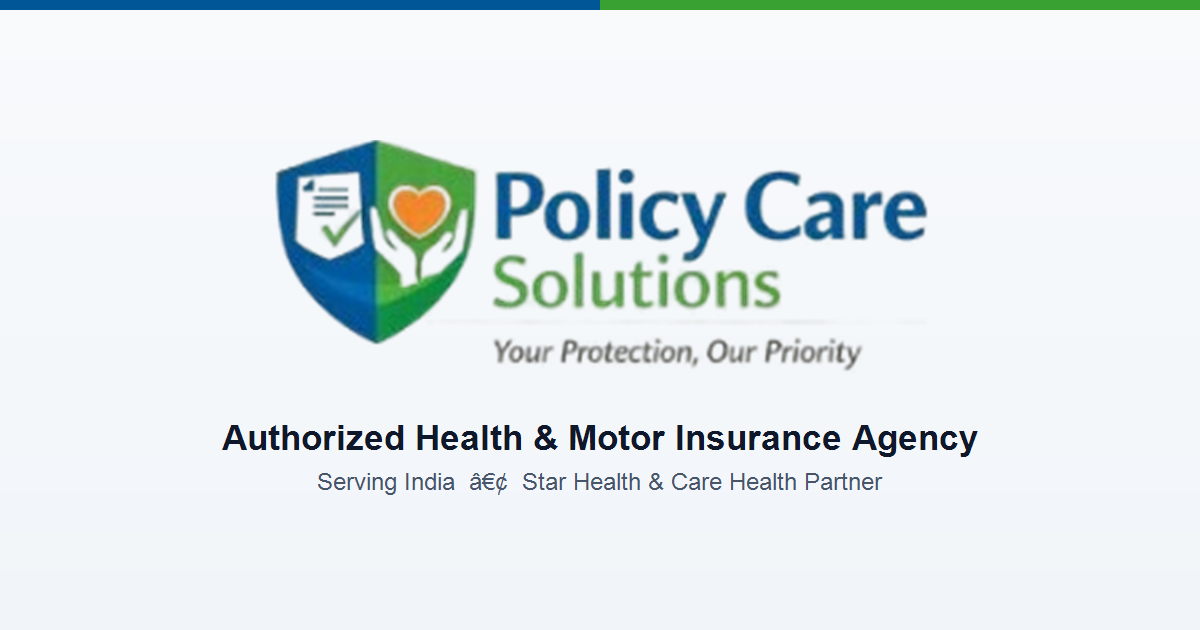
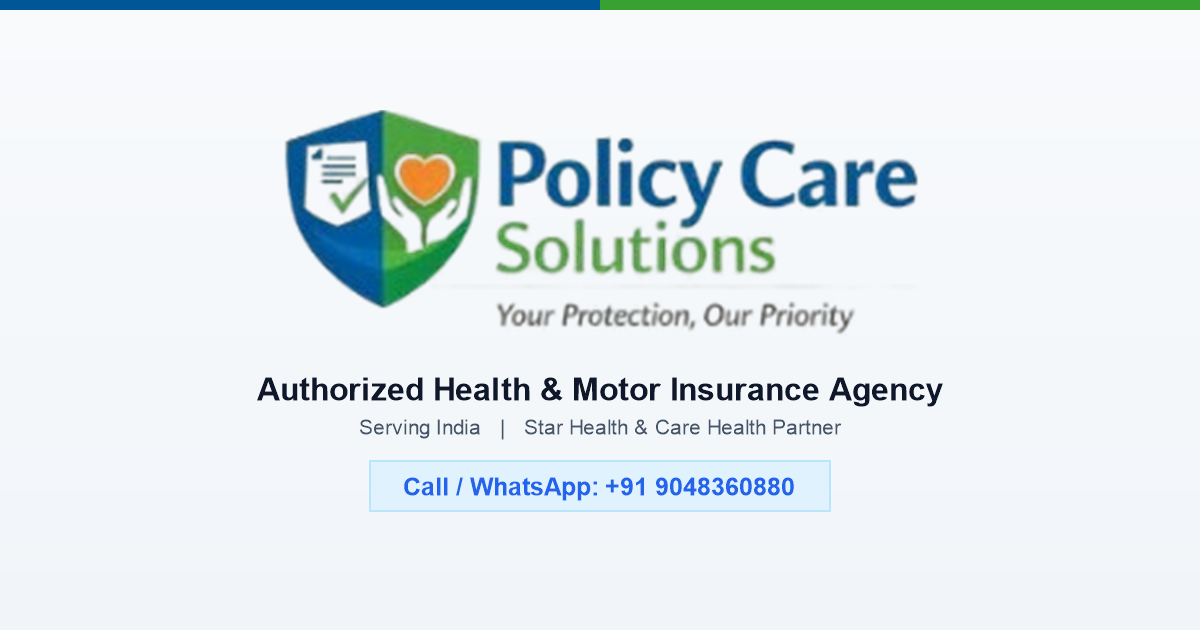
Telugu Added & OG Contact Added

Changed region(s): [[0.185, 0.1508, 0.8325, 0.8143]]

diff --git a/getquote.html b/getquote.html
@@ -4,7 +4,7 @@
     <meta charset="UTF-8">
     <meta name="viewport" content="width=device-width, initial-scale=1.0">
     <title>Instant Insurance Quote Assistant | Policy Care Solutions (Ottapalam & Palakkad)</title>
-    <meta name="description" content="Get an instant personalized Star Health, Care Health, or Motor insurance quote from licensed advisors in Ottapalam & Palakkad. Available in English, Malayalam, Tamil, Hindi, and Kannada.">
+    <meta name="description" content="Get an instant personalized Star Health, Care Health, or Motor insurance quote from licensed advisors in Ottapalam & Palakkad. Available in English, Malayalam, Tamil, Telugu, Hindi, and Kannada.">
     <meta name="keywords" content="Get Insurance Quote Ottapalam, Health Insurance Agents Palakkad, Star Health Malayalam Quote, Care Health Tamil Quote, Motor Insurance Renewal Kerala">
     
     <!-- Favicon & Icons -->
@@ -88,61 +88,60 @@
 
     <!-- FIRST VISIT LANGUAGE SELECTION MODAL POPUP -->
     <div id="language-modal-popup" class="fixed inset-0 z-50 bg-slate-950/70 backdrop-blur-md flex items-center justify-center p-4 animate-fadeIn">
-        <div class="bg-white dark:bg-slate-900 border border-slate-200 dark:border-slate-800 rounded-3xl p-6 sm:p-8 max-w-lg w-full shadow-2xl space-y-6 text-center">
+        <div class="bg-white dark:bg-slate-900 border border-slate-200 dark:border-slate-800 rounded-3xl p-6 sm:p-8 max-w-lg w-full shadow-2xl space-y-5 text-center">
             
-            <div class="w-16 h-16 rounded-2xl bg-gradient-to-tr from-sky-500 via-teal-500 to-emerald-500 text-white mx-auto flex items-center justify-center text-3xl font-black shadow-lg">
+            <div class="w-14 h-14 rounded-2xl bg-gradient-to-tr from-sky-500 via-teal-500 to-emerald-500 text-white mx-auto flex items-center justify-center text-2xl font-black shadow-lg">
                 <i class="fa-solid fa-language"></i>
             </div>
 
             <div>
-                <h2 class="text-xl sm:text-2xl font-extrabold text-slate-900 dark:text-white font-heading">Select Your Language</h2>
+                <h2 class="text-xl sm:text-2xl font-extrabold text-slate-900 dark:text-white font-heading">Choose Preferred Language</h2>
                 <p class="text-xs text-slate-500 dark:text-slate-400 mt-1">
-                    ഭാഷ തിരഞ്ഞെടുക്കുക • மொழியைத் தேர்ந்தெடுக்கவும் • भाषा चुनें • ಭಾಷೆಯನ್ನು ಆಯ್ಕೆಮಾಡಿ
+                    ഭാഷ തിരഞ്ഞെടുക്കുക • மொழியைத் தேர்ந்தெடுக்கவும் • భాషను ఎంచుకోండి
                 </p>
             </div>
 
-            <!-- 5 Language Buttons Grid -->
+            <!-- MAIN FEATURED PRIMARY BUTTONS (ENGLISH & MALAYALAM - LARGE CARDS) -->
             <div class="grid grid-cols-1 sm:grid-cols-2 gap-3 text-left">
-                <button onclick="confirmLanguageModal('en')" class="p-3.5 rounded-2xl bg-slate-50 dark:bg-slate-800 hover:bg-sky-50 dark:hover:bg-sky-950 border border-slate-200 dark:border-slate-700 hover:border-sky-500 transition-all flex items-center gap-3 group">
-                    <span class="text-2xl">🇬🇧</span>
+                <button onclick="confirmLanguageModal('en')" class="p-4 rounded-2xl bg-gradient-to-br from-sky-50 to-white dark:from-slate-800 dark:to-slate-900 hover:from-sky-100 dark:hover:from-sky-950 border-2 border-sky-500 shadow-md transition-all flex items-center gap-3 group">
+                    <span class="text-3xl">🇬🇧</span>
                     <div>
-                        <div class="font-extrabold text-xs text-slate-900 dark:text-white group-hover:text-sky-600">English</div>
-                        <div class="text-[10px] text-slate-500">Continue in English</div>
+                        <div class="font-extrabold text-sm text-slate-900 dark:text-white group-hover:text-sky-600">English</div>
+                        <div class="text-xs text-sky-600 dark:text-sky-400 font-semibold">Continue in English</div>
                     </div>
                 </button>
 
-                <button onclick="confirmLanguageModal('ml')" class="p-3.5 rounded-2xl bg-slate-50 dark:bg-slate-800 hover:bg-teal-50 dark:hover:bg-teal-950 border border-slate-200 dark:border-slate-700 hover:border-teal-500 transition-all flex items-center gap-3 group">
-                    <span class="text-2xl">🇮🇳</span>
+                <button onclick="confirmLanguageModal('ml')" class="p-4 rounded-2xl bg-gradient-to-br from-teal-50 to-white dark:from-slate-800 dark:to-slate-900 hover:from-teal-100 dark:hover:from-teal-950 border-2 border-teal-500 shadow-md transition-all flex items-center gap-3 group">
+                    <span class="text-3xl">🇮🇳</span>
                     <div>
-                        <div class="font-extrabold text-xs text-slate-900 dark:text-white group-hover:text-teal-600">മലയാളം</div>
-                        <div class="text-[10px] text-slate-500">മലയാളത്തിൽ തുടരുക</div>
-                    </div>
-                </button>
-
-                <button onclick="confirmLanguageModal('ta')" class="p-3.5 rounded-2xl bg-slate-50 dark:bg-slate-800 hover:bg-emerald-50 dark:hover:bg-emerald-950 border border-slate-200 dark:border-slate-700 hover:border-emerald-500 transition-all flex items-center gap-3 group">
-                    <span class="text-2xl">🇮🇳</span>
-                    <div>
-                        <div class="font-extrabold text-xs text-slate-900 dark:text-white group-hover:text-emerald-600">தமிழ்</div>
-                        <div class="text-[10px] text-slate-500">தமிழில் தொடரவும்</div>
-                    </div>
-                </button>
-
-                <button onclick="confirmLanguageModal('hi')" class="p-3.5 rounded-2xl bg-slate-50 dark:bg-slate-800 hover:bg-amber-50 dark:hover:bg-amber-950 border border-slate-200 dark:border-slate-700 hover:border-amber-500 transition-all flex items-center gap-3 group">
-                    <span class="text-2xl">🇮🇳</span>
-                    <div>
-                        <div class="font-extrabold text-xs text-slate-900 dark:text-white group-hover:text-amber-600">हिंदी</div>
-                        <div class="text-[10px] text-slate-500">हिंदी में आगे बढ़ें</div>
-                    </div>
-                </button>
-
-                <button onclick="confirmLanguageModal('kn')" class="p-3.5 rounded-2xl bg-slate-50 dark:bg-slate-800 hover:bg-purple-50 dark:hover:bg-purple-950 border border-slate-200 dark:border-slate-700 hover:border-purple-500 transition-all flex items-center gap-3 group sm:col-span-2">
-                    <span class="text-2xl">🇮🇳</span>
-                    <div>
-                        <div class="font-extrabold text-xs text-slate-900 dark:text-white group-hover:text-purple-600">ಕನ್ನಡ</div>
-                        <div class="text-[10px] text-slate-500">ಕನ್ನಡದಲ್ಲಿ ಮುಂದುವರಿಯಿರಿ</div>
+                        <div class="font-extrabold text-sm text-slate-900 dark:text-white group-hover:text-teal-600">മലയാളം</div>
+                        <div class="text-xs text-teal-600 dark:text-teal-400 font-semibold">മലയാളത്തിൽ തുടരുക</div>
                     </div>
                 </button>
             </div>
+
+            <!-- SECONDARY REGIONAL LANGUAGES (COMPACT SMALLER BUTTONS) -->
+            <div class="pt-2">
+                <div class="text-[11px] font-extrabold text-slate-400 dark:text-slate-500 uppercase tracking-wider mb-2.5 text-center">Other Regional Languages</div>
+                <div class="grid grid-cols-2 sm:grid-cols-4 gap-2 text-center">
+                    <button onclick="confirmLanguageModal('ta')" class="py-2.5 px-3 rounded-xl bg-slate-100 dark:bg-slate-800 hover:bg-emerald-50 dark:hover:bg-emerald-950 border border-slate-200 dark:border-slate-700 hover:border-emerald-500 transition-all font-extrabold text-xs text-slate-800 dark:text-slate-200 hover:text-emerald-600 flex items-center justify-center gap-1.5">
+                        <span>🇮🇳</span> தமிழ்
+                    </button>
+
+                    <button onclick="confirmLanguageModal('te')" class="py-2.5 px-3 rounded-xl bg-slate-100 dark:bg-slate-800 hover:bg-indigo-50 dark:hover:bg-indigo-950 border border-slate-200 dark:border-slate-700 hover:border-indigo-500 transition-all font-extrabold text-xs text-slate-800 dark:text-slate-200 hover:text-indigo-600 flex items-center justify-center gap-1.5">
+                        <span>🇮🇳</span> తెలుగు
+                    </button>
+
+                    <button onclick="confirmLanguageModal('hi')" class="py-2.5 px-3 rounded-xl bg-slate-100 dark:bg-slate-800 hover:bg-amber-50 dark:hover:bg-amber-950 border border-slate-200 dark:border-slate-700 hover:border-amber-500 transition-all font-extrabold text-xs text-slate-800 dark:text-slate-200 hover:text-amber-600 flex items-center justify-center gap-1.5">
+                        <span>🇮🇳</span> हिंदी
+                    </button>
+
+                    <button onclick="confirmLanguageModal('kn')" class="py-2.5 px-3 rounded-xl bg-slate-100 dark:bg-slate-800 hover:bg-purple-50 dark:hover:bg-purple-950 border border-slate-200 dark:border-slate-700 hover:border-purple-500 transition-all font-extrabold text-xs text-slate-800 dark:text-slate-200 hover:text-purple-600 flex items-center justify-center gap-1.5">
+                        <span>🇮🇳</span> ಕನ್ನಡ
+                    </button>
+                </div>
+            </div>
+
         </div>
     </div>
 
@@ -155,7 +154,7 @@
                     Policy Care Campaign Desk
                 </span>
                 <span class="text-[9px] text-emerald-600 dark:text-emerald-400 font-extrabold block italic">
-                    Ottapalam & Palakkad Agents
+                    Serving India • Health & Motor Insurance
                 </span>
             </div>
         </a>
@@ -195,7 +194,7 @@
                     </div>
                     <div>
                         <h1 class="font-extrabold text-sm text-slate-900 dark:text-white font-heading">Policy Care Live Advisor Assistant</h1>
-                        <p class="text-[11px] text-slate-500 dark:text-slate-400">Ottapalam & Palakkad • Instant WhatsApp Quote Generator</p>
+                        <p class="text-[11px] text-slate-500 dark:text-slate-400">Serving India • Instant WhatsApp Quote Generator</p>
                     </div>
                 </div>
 

diff --git a/getquote/index.html b/getquote/index.html
@@ -4,7 +4,7 @@
     <meta charset="UTF-8">
     <meta name="viewport" content="width=device-width, initial-scale=1.0">
     <title>Instant Insurance Quote Assistant | Policy Care Solutions (Ottapalam & Palakkad)</title>
-    <meta name="description" content="Get an instant personalized Star Health, Care Health, or Motor insurance quote from licensed advisors in Ottapalam & Palakkad. Available in English, Malayalam, Tamil, Hindi, and Kannada.">
+    <meta name="description" content="Get an instant personalized Star Health, Care Health, or Motor insurance quote from licensed advisors in Ottapalam & Palakkad. Available in English, Malayalam, Tamil, Telugu, Hindi, and Kannada.">
     <meta name="keywords" content="Get Insurance Quote Ottapalam, Health Insurance Agents Palakkad, Star Health Malayalam Quote, Care Health Tamil Quote, Motor Insurance Renewal Kerala">
     
     <!-- Favicon & Icons -->
@@ -88,61 +88,60 @@
 
     <!-- FIRST VISIT LANGUAGE SELECTION MODAL POPUP -->
     <div id="language-modal-popup" class="fixed inset-0 z-50 bg-slate-950/70 backdrop-blur-md flex items-center justify-center p-4 animate-fadeIn">
-        <div class="bg-white dark:bg-slate-900 border border-slate-200 dark:border-slate-800 rounded-3xl p-6 sm:p-8 max-w-lg w-full shadow-2xl space-y-6 text-center">
+        <div class="bg-white dark:bg-slate-900 border border-slate-200 dark:border-slate-800 rounded-3xl p-6 sm:p-8 max-w-lg w-full shadow-2xl space-y-5 text-center">
             
-            <div class="w-16 h-16 rounded-2xl bg-gradient-to-tr from-sky-500 via-teal-500 to-emerald-500 text-white mx-auto flex items-center justify-center text-3xl font-black shadow-lg">
+            <div class="w-14 h-14 rounded-2xl bg-gradient-to-tr from-sky-500 via-teal-500 to-emerald-500 text-white mx-auto flex items-center justify-center text-2xl font-black shadow-lg">
                 <i class="fa-solid fa-language"></i>
             </div>
 
             <div>
-                <h2 class="text-xl sm:text-2xl font-extrabold text-slate-900 dark:text-white font-heading">Select Your Language</h2>
+                <h2 class="text-xl sm:text-2xl font-extrabold text-slate-900 dark:text-white font-heading">Choose Preferred Language</h2>
                 <p class="text-xs text-slate-500 dark:text-slate-400 mt-1">
-                    ഭാഷ തിരഞ്ഞെടുക്കുക • மொழியைத் தேர்ந்தெடுக்கவும் • भाषा चुनें • ಭಾಷೆಯನ್ನು ಆಯ್ಕೆಮಾಡಿ
+                    ഭാഷ തിരഞ്ഞെടുക്കുക • மொழியைத் தேர்ந்தெடுக்கவும் • భాషను ఎంచుకోండి
                 </p>
             </div>
 
-            <!-- 5 Language Buttons Grid -->
+            <!-- MAIN FEATURED PRIMARY BUTTONS (ENGLISH & MALAYALAM - LARGE CARDS) -->
             <div class="grid grid-cols-1 sm:grid-cols-2 gap-3 text-left">
-                <button onclick="confirmLanguageModal('en')" class="p-3.5 rounded-2xl bg-slate-50 dark:bg-slate-800 hover:bg-sky-50 dark:hover:bg-sky-950 border border-slate-200 dark:border-slate-700 hover:border-sky-500 transition-all flex items-center gap-3 group">
-                    <span class="text-2xl">🇬🇧</span>
+                <button onclick="confirmLanguageModal('en')" class="p-4 rounded-2xl bg-gradient-to-br from-sky-50 to-white dark:from-slate-800 dark:to-slate-900 hover:from-sky-100 dark:hover:from-sky-950 border-2 border-sky-500 shadow-md transition-all flex items-center gap-3 group">
+                    <span class="text-3xl">🇬🇧</span>
                     <div>
-                        <div class="font-extrabold text-xs text-slate-900 dark:text-white group-hover:text-sky-600">English</div>
-                        <div class="text-[10px] text-slate-500">Continue in English</div>
+                        <div class="font-extrabold text-sm text-slate-900 dark:text-white group-hover:text-sky-600">English</div>
+                        <div class="text-xs text-sky-600 dark:text-sky-400 font-semibold">Continue in English</div>
                     </div>
                 </button>
 
-                <button onclick="confirmLanguageModal('ml')" class="p-3.5 rounded-2xl bg-slate-50 dark:bg-slate-800 hover:bg-teal-50 dark:hover:bg-teal-950 border border-slate-200 dark:border-slate-700 hover:border-teal-500 transition-all flex items-center gap-3 group">
-                    <span class="text-2xl">🇮🇳</span>
+                <button onclick="confirmLanguageModal('ml')" class="p-4 rounded-2xl bg-gradient-to-br from-teal-50 to-white dark:from-slate-800 dark:to-slate-900 hover:from-teal-100 dark:hover:from-teal-950 border-2 border-teal-500 shadow-md transition-all flex items-center gap-3 group">
+                    <span class="text-3xl">🇮🇳</span>
                     <div>
-                        <div class="font-extrabold text-xs text-slate-900 dark:text-white group-hover:text-teal-600">മലയാളം</div>
-                        <div class="text-[10px] text-slate-500">മലയാളത്തിൽ തുടരുക</div>
-                    </div>
-                </button>
-
-                <button onclick="confirmLanguageModal('ta')" class="p-3.5 rounded-2xl bg-slate-50 dark:bg-slate-800 hover:bg-emerald-50 dark:hover:bg-emerald-950 border border-slate-200 dark:border-slate-700 hover:border-emerald-500 transition-all flex items-center gap-3 group">
-                    <span class="text-2xl">🇮🇳</span>
-                    <div>
-                        <div class="font-extrabold text-xs text-slate-900 dark:text-white group-hover:text-emerald-600">தமிழ்</div>
-                        <div class="text-[10px] text-slate-500">தமிழில் தொடரவும்</div>
-                    </div>
-                </button>
-
-                <button onclick="confirmLanguageModal('hi')" class="p-3.5 rounded-2xl bg-slate-50 dark:bg-slate-800 hover:bg-amber-50 dark:hover:bg-amber-950 border border-slate-200 dark:border-slate-700 hover:border-amber-500 transition-all flex items-center gap-3 group">
-                    <span class="text-2xl">🇮🇳</span>
-                    <div>
-                        <div class="font-extrabold text-xs text-slate-900 dark:text-white group-hover:text-amber-600">हिंदी</div>
-                        <div class="text-[10px] text-slate-500">हिंदी में आगे बढ़ें</div>
-                    </div>
-                </button>
-
-                <button onclick="confirmLanguageModal('kn')" class="p-3.5 rounded-2xl bg-slate-50 dark:bg-slate-800 hover:bg-purple-50 dark:hover:bg-purple-950 border border-slate-200 dark:border-slate-700 hover:border-purple-500 transition-all flex items-center gap-3 group sm:col-span-2">
-                    <span class="text-2xl">🇮🇳</span>
-                    <div>
-                        <div class="font-extrabold text-xs text-slate-900 dark:text-white group-hover:text-purple-600">ಕನ್ನಡ</div>
-                        <div class="text-[10px] text-slate-500">ಕನ್ನಡದಲ್ಲಿ ಮುಂದುವರಿಯಿರಿ</div>
+                        <div class="font-extrabold text-sm text-slate-900 dark:text-white group-hover:text-teal-600">മലയാളം</div>
+                        <div class="text-xs text-teal-600 dark:text-teal-400 font-semibold">മലയാളത്തിൽ തുടരുക</div>
                     </div>
                 </button>
             </div>
+
+            <!-- SECONDARY REGIONAL LANGUAGES (COMPACT SMALLER BUTTONS) -->
+            <div class="pt-2">
+                <div class="text-[11px] font-extrabold text-slate-400 dark:text-slate-500 uppercase tracking-wider mb-2.5 text-center">Other Regional Languages</div>
+                <div class="grid grid-cols-2 sm:grid-cols-4 gap-2 text-center">
+                    <button onclick="confirmLanguageModal('ta')" class="py-2.5 px-3 rounded-xl bg-slate-100 dark:bg-slate-800 hover:bg-emerald-50 dark:hover:bg-emerald-950 border border-slate-200 dark:border-slate-700 hover:border-emerald-500 transition-all font-extrabold text-xs text-slate-800 dark:text-slate-200 hover:text-emerald-600 flex items-center justify-center gap-1.5">
+                        <span>🇮🇳</span> தமிழ்
+                    </button>
+
+                    <button onclick="confirmLanguageModal('te')" class="py-2.5 px-3 rounded-xl bg-slate-100 dark:bg-slate-800 hover:bg-indigo-50 dark:hover:bg-indigo-950 border border-slate-200 dark:border-slate-700 hover:border-indigo-500 transition-all font-extrabold text-xs text-slate-800 dark:text-slate-200 hover:text-indigo-600 flex items-center justify-center gap-1.5">
+                        <span>🇮🇳</span> తెలుగు
+                    </button>
+
+                    <button onclick="confirmLanguageModal('hi')" class="py-2.5 px-3 rounded-xl bg-slate-100 dark:bg-slate-800 hover:bg-amber-50 dark:hover:bg-amber-950 border border-slate-200 dark:border-slate-700 hover:border-amber-500 transition-all font-extrabold text-xs text-slate-800 dark:text-slate-200 hover:text-amber-600 flex items-center justify-center gap-1.5">
+                        <span>🇮🇳</span> हिंदी
+                    </button>
+
+                    <button onclick="confirmLanguageModal('kn')" class="py-2.5 px-3 rounded-xl bg-slate-100 dark:bg-slate-800 hover:bg-purple-50 dark:hover:bg-purple-950 border border-slate-200 dark:border-slate-700 hover:border-purple-500 transition-all font-extrabold text-xs text-slate-800 dark:text-slate-200 hover:text-purple-600 flex items-center justify-center gap-1.5">
+                        <span>🇮🇳</span> ಕನ್ನಡ
+                    </button>
+                </div>
+            </div>
+
         </div>
     </div>
 
@@ -155,7 +154,7 @@
                     Policy Care Campaign Desk
                 </span>
                 <span class="text-[9px] text-emerald-600 dark:text-emerald-400 font-extrabold block italic">
-                    Ottapalam & Palakkad Agents
+                    Serving India • Health & Motor Insurance
                 </span>
             </div>
         </a>
@@ -195,7 +194,7 @@
                     </div>
                     <div>
                         <h1 class="font-extrabold text-sm text-slate-900 dark:text-white font-heading">Policy Care Live Advisor Assistant</h1>
-                        <p class="text-[11px] text-slate-500 dark:text-slate-400">Ottapalam & Palakkad • Instant WhatsApp Quote Generator</p>
+                        <p class="text-[11px] text-slate-500 dark:text-slate-400">Serving India • Instant WhatsApp Quote Generator</p>
                     </div>
                 </div>
 

diff --git a/js/getquote.js b/js/getquote.js
@@ -140,6 +140,38 @@ const i18n = {
         father: "தந்தை",
         mother: "தாய்"
     },
+    te: {
+        welcomeMsg: "నమస్కారం! <strong>పాలసీ కేర్ సొల్యూషన్స్ (Policy Care Solutions)</strong> కి స్వాగతం. మీ కుటుంబానికి సరిపోయే ఇన్సూరెన్స్ ప్లాన్ ఎంచుకోవడానికి నేను సహాయం చేస్తాను!",
+        askName: "చాలా సంతోషం! ముందుగా మీ <strong>పూర్తి పేరు</strong> తెలుసుకోవచ్చా?",
+        namePlaceholder: "మీ పేరును ఇక్కడ ఎంటర్ చేయండి...",
+        askPhone: "మిమ్మల్ని కలవడం సంతోషంగా ఉంది, <strong>{name}</strong>! మీ <strong>మొబైల్ నంబర్</strong> ఏమిటి?",
+        phonePlaceholder: "మొబైల్ నంబర్...",
+        askEmail: "ధన్యవాదాలు, <strong>{name}</strong>! మీ <strong>ఇమెయిల్ ఐడీ</strong> ఏమిటి? (ఇది ఐచ్ఛికం)",
+        emailPlaceholder: "name@example.com",
+        skipEmailBtn: "ఇమెయిల్ ఇప్పుడు వద్దు",
+        askCoverage: "అద్భుతం <strong>{name}</strong>! మీరు ఇన్సూరెన్స్ <strong>కేవలం మీ కోసమా (Individual)</strong> లేదా <strong>కుటుంబం కోసమా (Family Floater)</strong>?",
+        covIndividual: "వ్యక్తిగత పాలసీ (నాకు మాత్రమే)",
+        covFamily: "ఫ్యామిలీ ఫ్లోటర్ (నేను, భాగస్వామి, పిల్లలు, తల్లిదండ్రులు)",
+        askMembers: "కుటుంబ సభ్యుల వయస్సు లేదా పుట్టిన తేదీని ఎంచుకోండి:",
+        addMemberBtn: "+ సభ్యులను జోడించండి",
+        askLocation: "చివరగా, మీ <strong>పిన్కోడ్ లేదా నగరం</strong> (ఉదా: ఒట్టాపాలెం, పాలక్కాడ్) ఏమిటి?",
+        pincodePlaceholder: "6 అంకెల పిన్కోడ్...",
+        cityPlaceholder: "నగరం పేరు...",
+        locationPersonalization: "చాలా బాగుంది, <strong>{name}</strong>! <strong>{location}</strong> లో ఉన్నవారికి నెట్వర్క్ ఆసుపత్రులలో నేరుగా క్యాష్లెస్ సౌకర్యాన్ని అందిస్తున్నాము.",
+        reviewMsg: "అన్నీ సిద్ధంగా ఉన్నాయి, <strong>{name}</strong>! <strong>{location}</strong> పాలసీ వివరాలు సిద్ధంగా ఉన్నాయి. వాట్సాప్లో మా ప్రతినిధితో మాట్లాడటానికి కింద క్లిక్ చేయండి:",
+        submitWaBtn: "వాట్సాప్లో వివరాలు పంపండి (+91 9048360880)",
+        nextBtn: "కొనసాగించండి",
+        backBtn: "వెనుకకు",
+        verifiedTitle: "వివరాలు సిద్ధంగా ఉన్నాయి",
+        modeAge: "వయస్సు (సంవత్సరాలు)",
+        modeDob: "పుట్టిన తేదీ",
+        self: "నేను",
+        spouse: "భాగస్వామి",
+        child1: "మొదటి బిడ్డ",
+        child2: "రెండవ బిడ్డ",
+        father: "తండ్రి",
+        mother: "తల్లి"
+    },
     hi: {
         welcomeMsg: "नमस्ते! <strong>पॉलिसी केयर सॉल्यूशंस</strong> (ओट्टापालम और पालक्काड) में आपका स्वागत है। मैं आपकी स्वास्थ्य सुरक्षा के लिए सही पॉलिसी चुनने में सहायता करूँगा!",
         askName: "बहुत बढ़िया! सबसे पहले, क्या मैं आपका <strong>पूरा नाम</strong> जान सकता हूँ?",
@@ -272,6 +304,7 @@ function updateLangBadge() {
     if (badge) {
         if (quoteState.lang === 'ml') badge.innerText = 'മലയാളം';
         else if (quoteState.lang === 'ta') badge.innerText = 'தமிழ்';
+        else if (quoteState.lang === 'te') badge.innerText = 'తెలుగు';
         else if (quoteState.lang === 'hi') badge.innerText = 'हिंदी';
         else if (quoteState.lang === 'kn') badge.innerText = 'ಕನ್ನಡ';
         else badge.innerText = 'English';

diff --git a/README.md b/README.md
@@ -7,12 +7,12 @@ Official website for **Policy Care Solutions**, an authorized **Star Health, Car
 ## 🌟 Key Features
 
 1. **Official 1200x630 Open Graph (OG), Favicon & WhatsApp Share Banner**:
-   - **Exact 1200 x 630 Pixels Standard OG Image (`images/og-share.png`)**: Built using official Open Graph 1200x630 specifications (1.91:1 ratio) featuring the official Policy Care Solutions logo, tagline *"Your Protection, Our Priority"*, and *"Serving India"*. Fits WhatsApp link preview aspect ratio perfectly without cropping.
+   - **Exact 1200 x 630 Pixels Standard OG Image (`images/og-share.png`)**: Built using official Open Graph 1200x630 specifications featuring the official Policy Care Solutions logo, tagline *"Your Protection, Our Priority"*, *"Serving India"*, and branded contact pill `Call / WhatsApp: +91 9048360880`.
    - **Clean OG & Twitter Meta Tags**: Configured `og:title`, `og:description`, `og:image`, `og:image:width="1200"`, `og:image:height="630"`, `og:url`, `og:site_name`, `twitter:card`, and Apple Touch Favicon tags across all pages (`index.html` & `/getquote`).
 
 2. **100% Full-Screen Campaign Chat Landing Page (`https://www.policycaresolutions.com/getquote`)**:
-   - **First-Visit Language Selection Popup Modal**: Asks visitors to choose their language instantly (🇬🇧 **English**, 🇮🇳 **മലയാളം**, 🇮🇳 **தமிழ்**, 🇮🇳 **हिंदी**, 🇮🇳 **ಕನ್ನಡ**).
-   - **5 Regional Languages Supported**: All chat prompts, options, and helper messages speak natively in the selected language.
+   - **First-Visit Language Selection Popup Modal**: Prominently features 🇬🇧 **English** and 🇮🇳 **മലയാളം** as primary large buttons, with small compact buttons for regional languages below (🇮🇳 **தமிழ்**, 🇮🇳 **తెలుగు**, 🇮🇳 **हिंदी**, 🇮🇳 **ಕನ್ನಡ**).
+   - **6 Regional Languages Supported**: Added **Telugu (`తెలుగు`)** alongside Malayalam, Tamil, Hindi, Kannada, and English.
    - **English-Only WhatsApp Output Guarantee**: Regardless of chat language, the final compiled WhatsApp lead payload sent to `+919048360880` is generated in **ENGLISH ONLY**.
    - **Location Personalization**: Contextually references client location (e.g. Ottapalam, Palakkad, Shornur, Perinthalmanna) and highlights local network hospital tie-ups (Valluvanad, PK Das, KIMS Al Shifa, Crest Hospital).
    - **Country Code Dropdown for NRIs & Local Clients**: `+91 (India)`, `+971 (UAE)`, `+966 (Saudi Arabia)`, `+965 (Kuwait)`, `+968 (Oman)`, `+974 (Qatar)`, `+973 (Bahrain)`, `+1 (USA)`, `+44 (UK)`, `+65 (Singapore)`.
